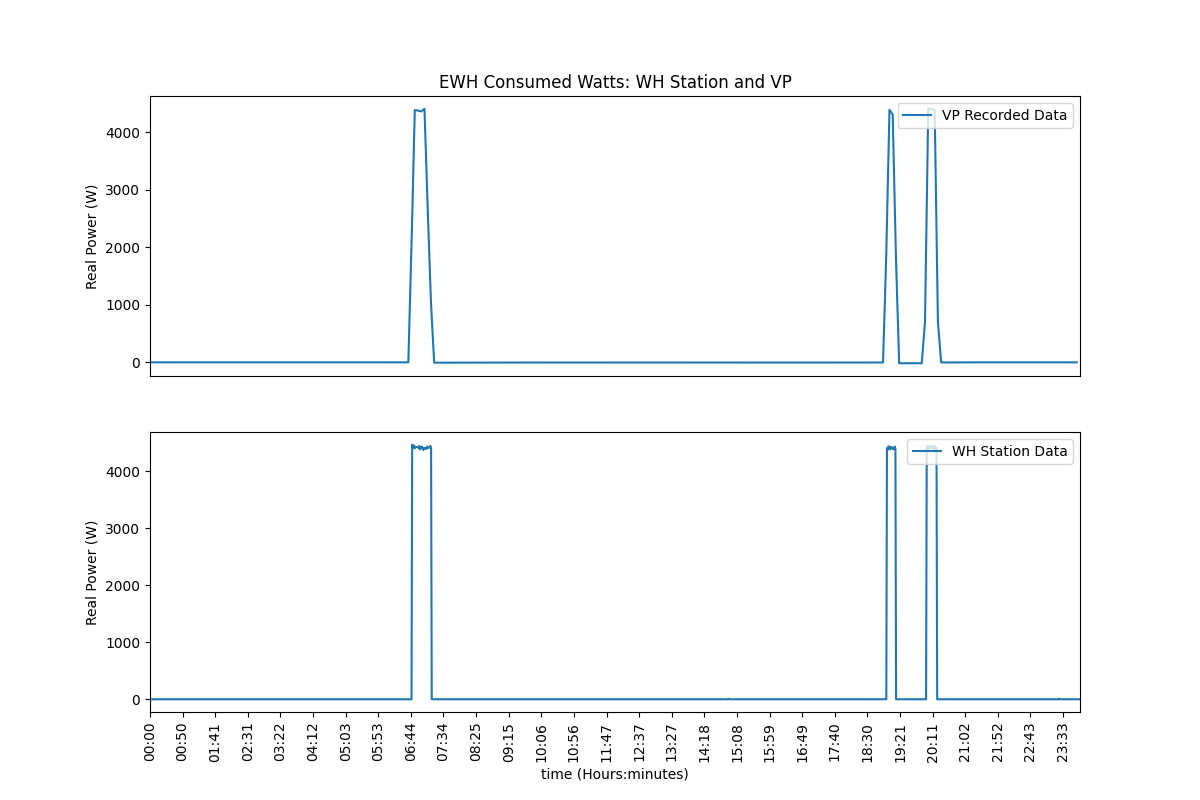
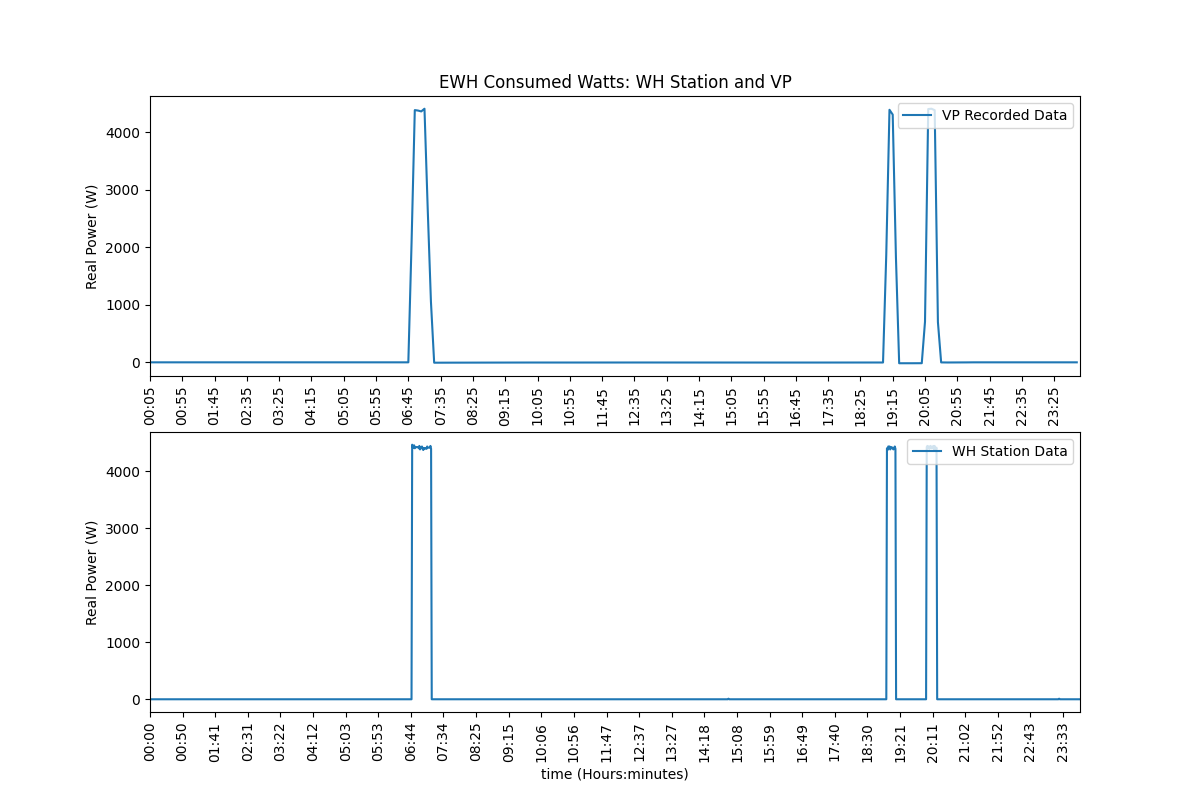
fixed ewh plot basecase

Changed region(s): [[0.1233, 0.4688, 0.8942, 0.5312]]

diff --git a/Programmable_Load_Control/scripts/ewh_load_up_emcb_closed_watts.py b/Programmable_Load_Control/scripts/ewh_load_up_emcb_closed_watts.py
@@ -79,14 +79,17 @@ def ewh_vp_vs_log_No_loadup(log,vp):
     y = log['consumed_watts']
     y2 = vp['circuit-breaker-total-power']* 1000
     fig,ax = plt.subplots(2,figsize=(12,8))
-    ax[0].xaxis.set_major_locator(plt.NullLocator())
+    ax[0].yaxis.set_major_locator(plt.MaxNLocator(6))
+    ax[1].yaxis.set_major_locator(plt.MaxNLocator(6))
+    ax[0].xaxis.set_major_locator(plt.MaxNLocator(30))
     ax[1].xaxis.set_major_locator(plt.MaxNLocator(30))
     ax[0].plot(x2,y2,label='VP Recorded Data')
     ax[1].plot(x,y,label='WH Station Data')
     ax[1].set_xlabel('time (Hours:minutes)')
     ax[0].set_ylabel('Real Power (W)')
     ax[1].set_ylabel('Real Power (W)')
-    plt.xticks(rotation=90)
+    ax[0].tick_params(axis='x',rotation=90)
+    ax[1].tick_params(axis='x',rotation=90)
     x2_max = vp['time'].max()
     ax[0].set_xlim([0,x2_max])
     x_max = log['timestamp'].max()
